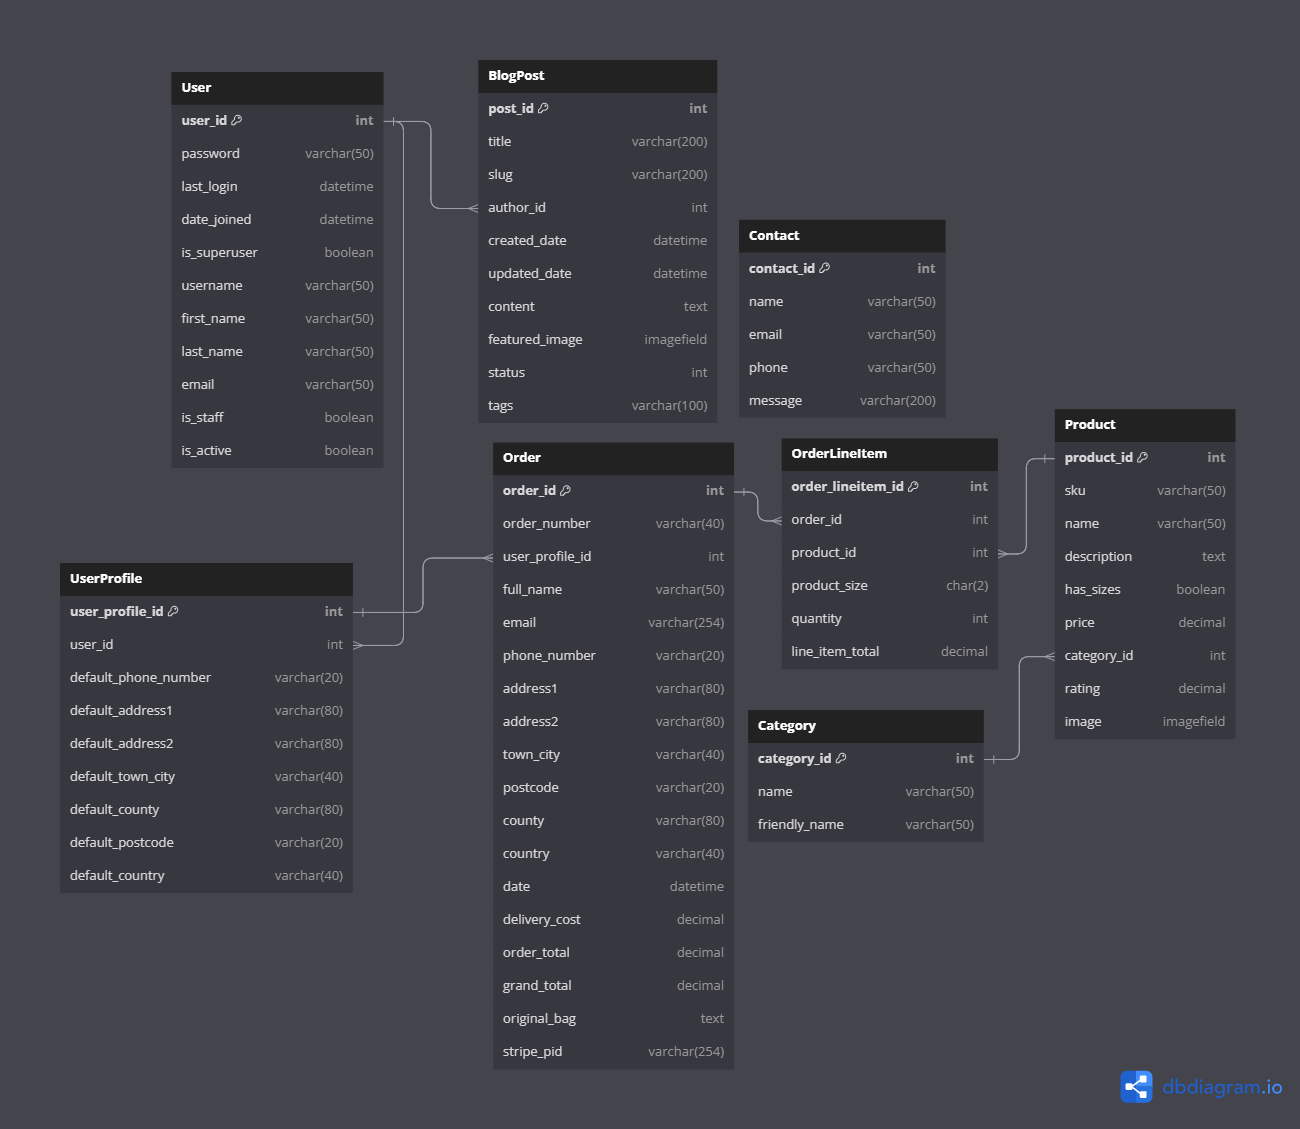
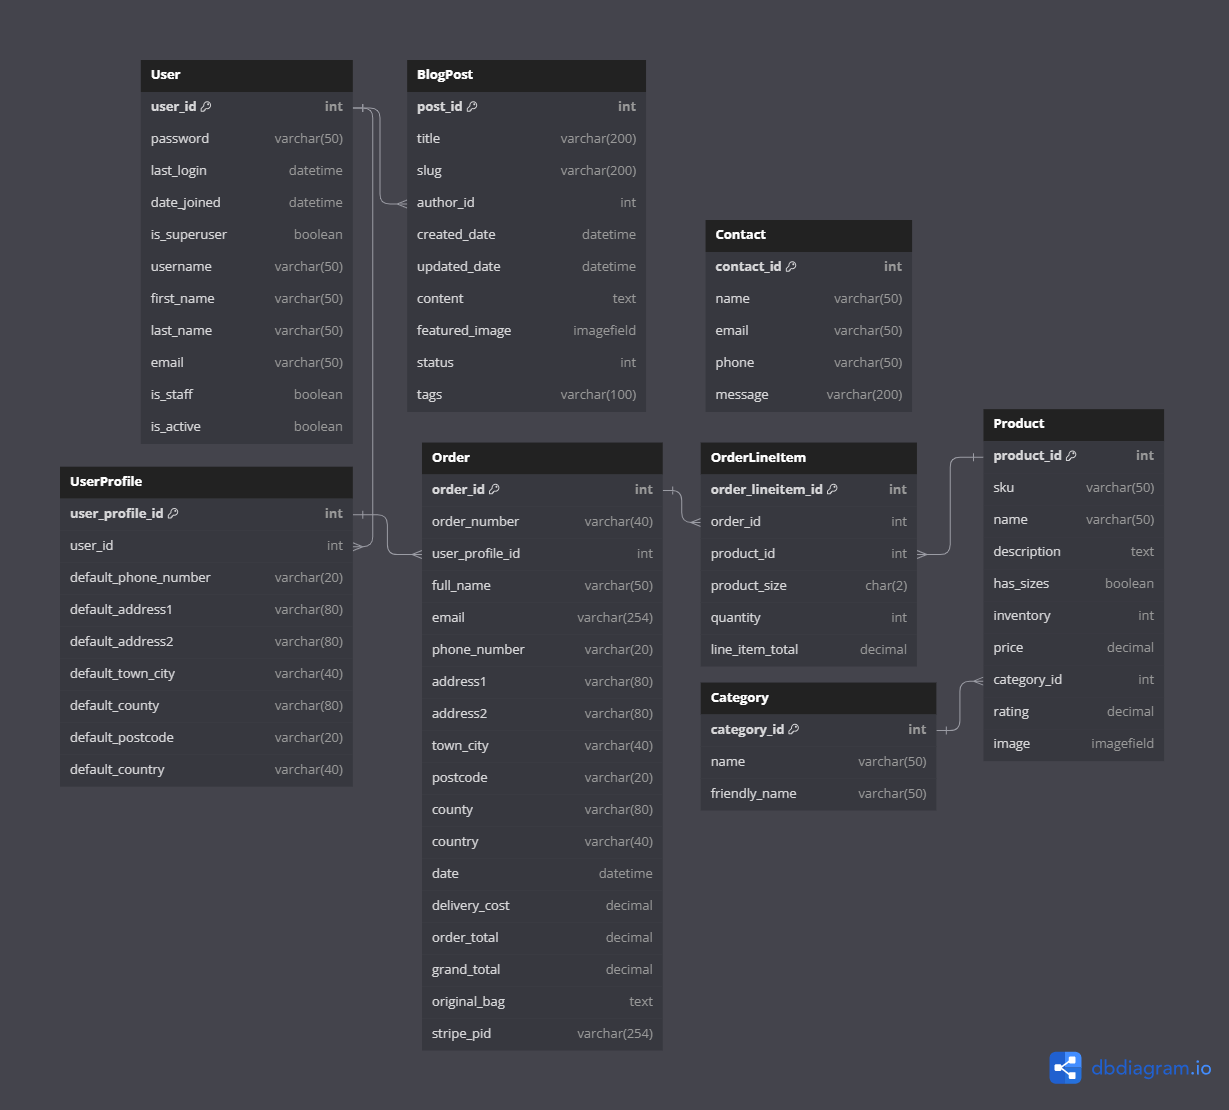
modify model and tools section in readme and remove js type attribute due to testing error

diff --git a/templates/base.html b/templates/base.html
@@ -292,8 +292,8 @@
             $('.toast').toast('show');
         });
     </script>
-    <script type="text/javascript" src="//s3.amazonaws.com/downloads.mailchimp.com/js/mc-validate.js"></script>
-    <script type="text/javascript">
+    <script src="//s3.amazonaws.com/downloads.mailchimp.com/js/mc-validate.js"></script>
+    <script>
         (function ($) {
             window.fnames = new Array();
             window.ftypes = new Array();

diff --git a/README.md b/README.md
@@ -352,6 +352,7 @@ I built my database using PostgreSQL. I have opted for PostgreSQL as my database
 |            | description | TextField      |
 |            | has_sizes   | BooleanField   |
 |            | price       | DecimalField   |
+|            | inventory   | IntegerField   |
 | ForeignKey | category    | Category model |
 |            | rating      | DecimalField   |
 |            | image       | ImageField     |
@@ -443,6 +444,7 @@ I built my database using PostgreSQL. I have opted for PostgreSQL as my database
 - [AWS](https://aws.amazon.com/)
 - [jQuery](https://jquery.com)
 - [Postgres](https://www.postgresql.org/)
+- [Balsamiq](https://balsamiq.com/)
 - [PyCharm](https://www.jetbrains.com/pycharm/download/?section=windows)
 - Validation:
   - [WC3 Validator](https://validator.w3.org/)
